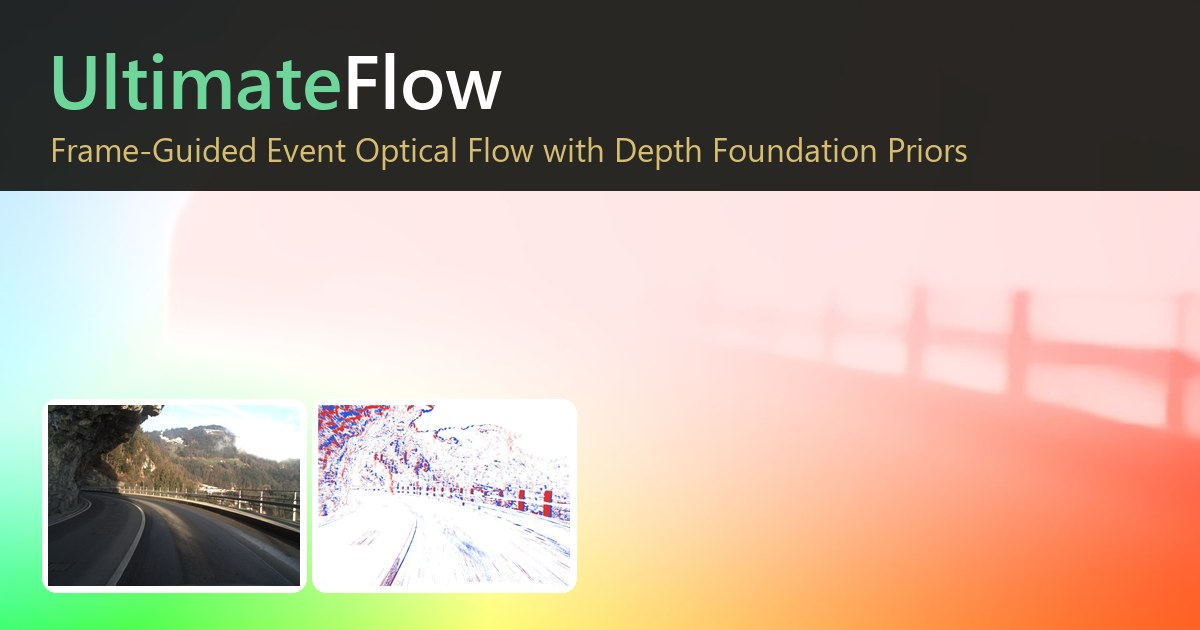
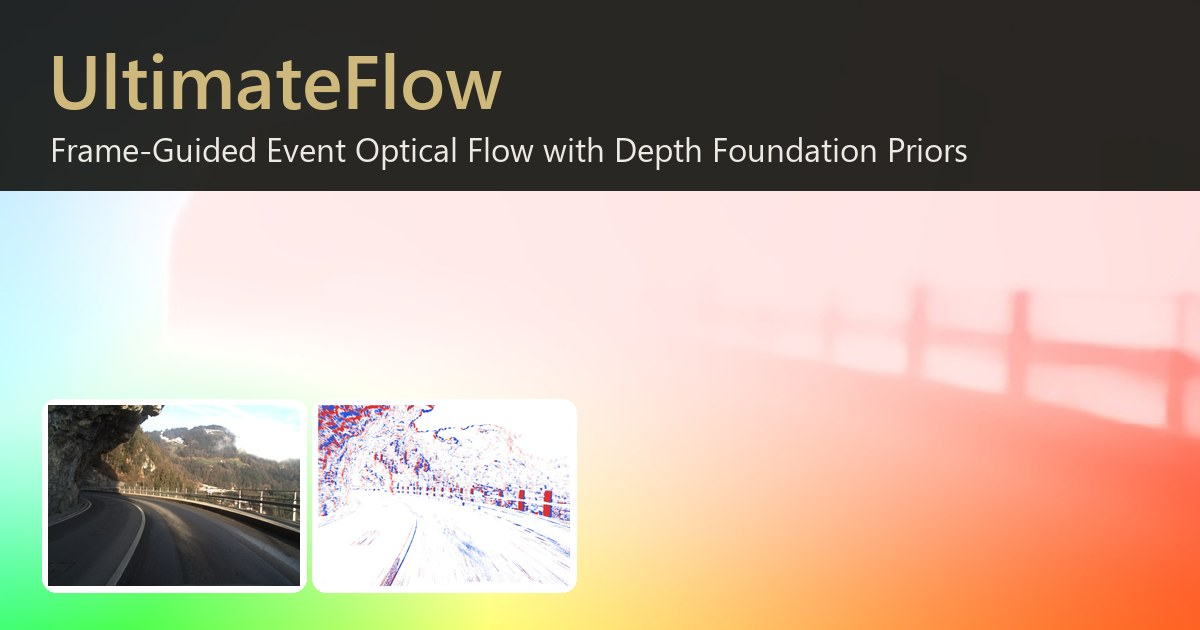
UltimateFlow page: the name in PRAISe gold in the title and on the link-preview card

Changed region(s): [[0.0308, 0.2111, 0.8017, 0.2714], [0.0308, 0.0905, 0.4317, 0.181]]

diff --git a/src/research/UltimateFlow/static/uflow.css b/src/research/UltimateFlow/static/uflow.css
@@ -32,7 +32,8 @@
   --uf-warn: #f0906f;
 }
 
-.publication-title .uf-accent,
+/* The name in PRAISe gold, in both themes. */
+.publication-title .uf-accent { color: var(--pp-gold); }
 .content .uf-ours { color: var(--uf-ours); }
 .content .uf-event { color: var(--uf-event); }
 .content .uf-frame { color: var(--uf-frame); }

diff --git a/src/research/UltimateFlow/index.md b/src/research/UltimateFlow/index.md
@@ -1,6 +1,6 @@
 ---
 title: "UltimateFlow: Frame-Guided Event Optical Flow with Depth Foundation Priors"
-title_html: '<span class="uf-accent">Ultimate</span>Flow: Frame-Guided Event Optical Flow with Depth Foundation Priors'
+title_html: '<span class="uf-accent">UltimateFlow</span>: Frame-Guided Event Optical Flow with Depth Foundation Priors'
 description: "UltimateFlow gives a frozen RGB optical flow network to an event-based estimator as a dense input and a starting point, instead of blending the two at the output. It ranks first on the DSEC-Flow benchmark with an endpoint error of 0.554."
 image: static/images/social.jpg
 keywords: [event camera, optical flow, event-based vision, depth foundation models, sensor fusion, DSEC, MVSEC, UltimateFlow]
